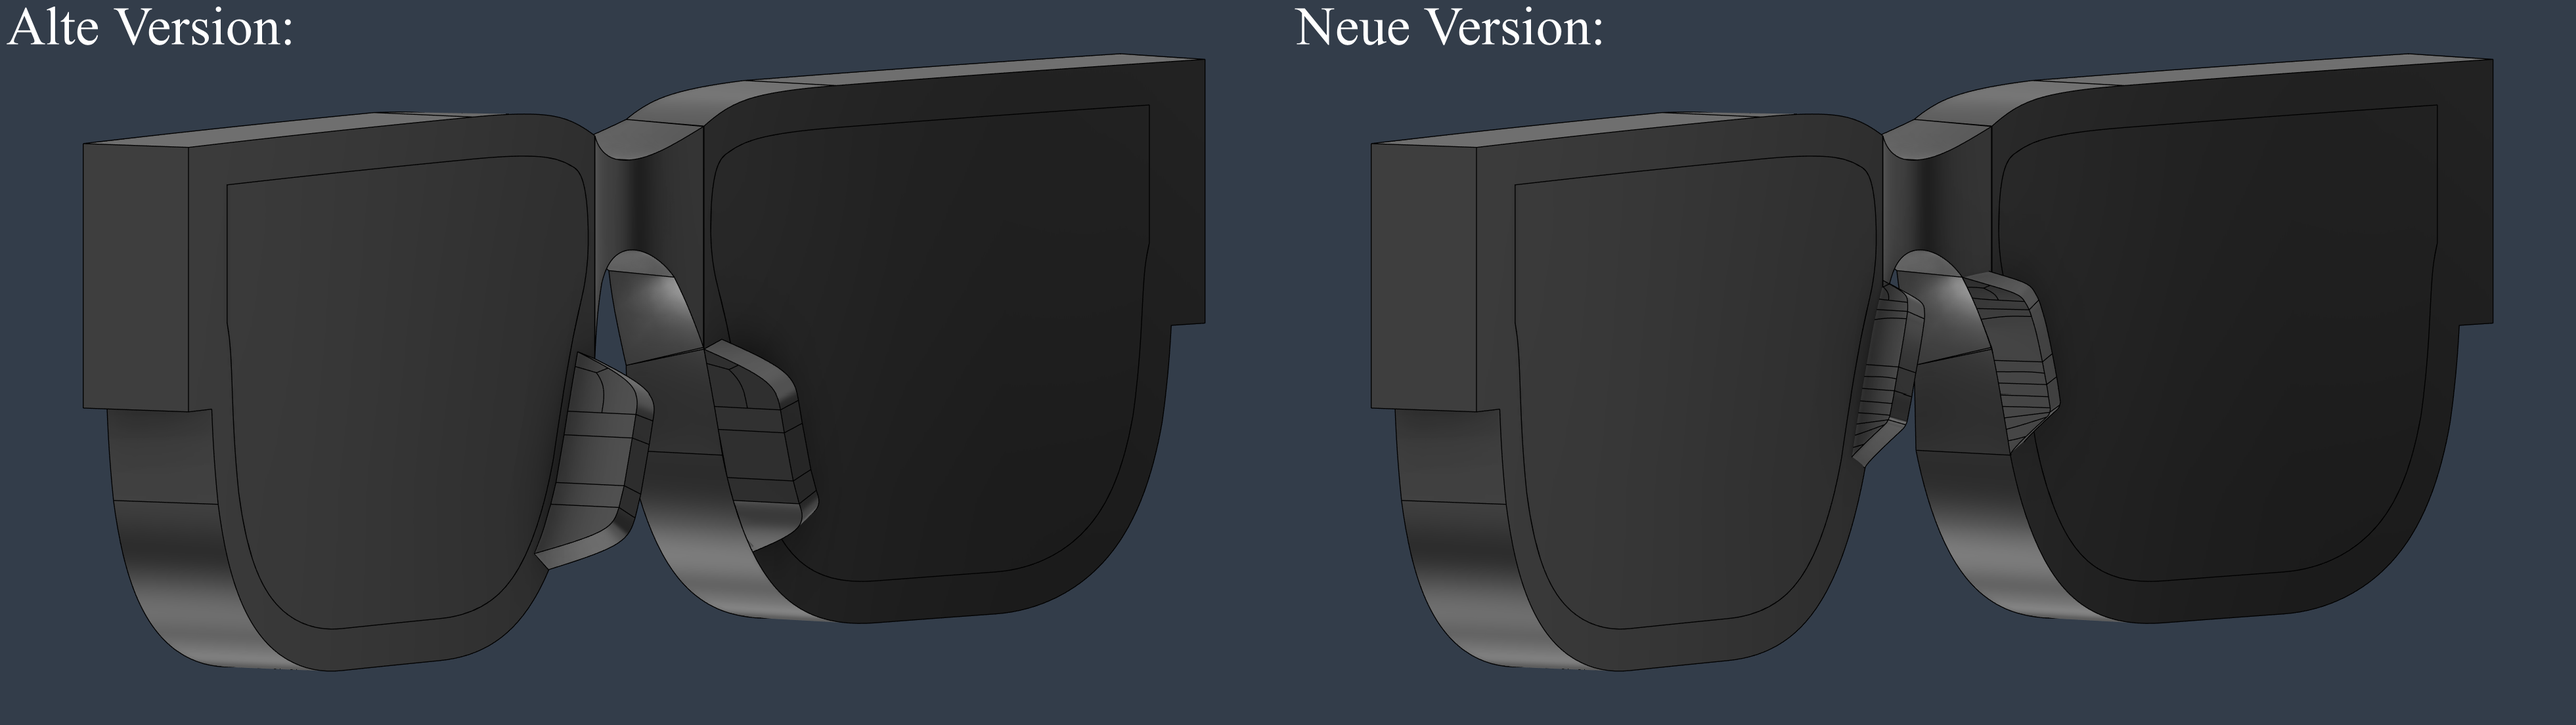
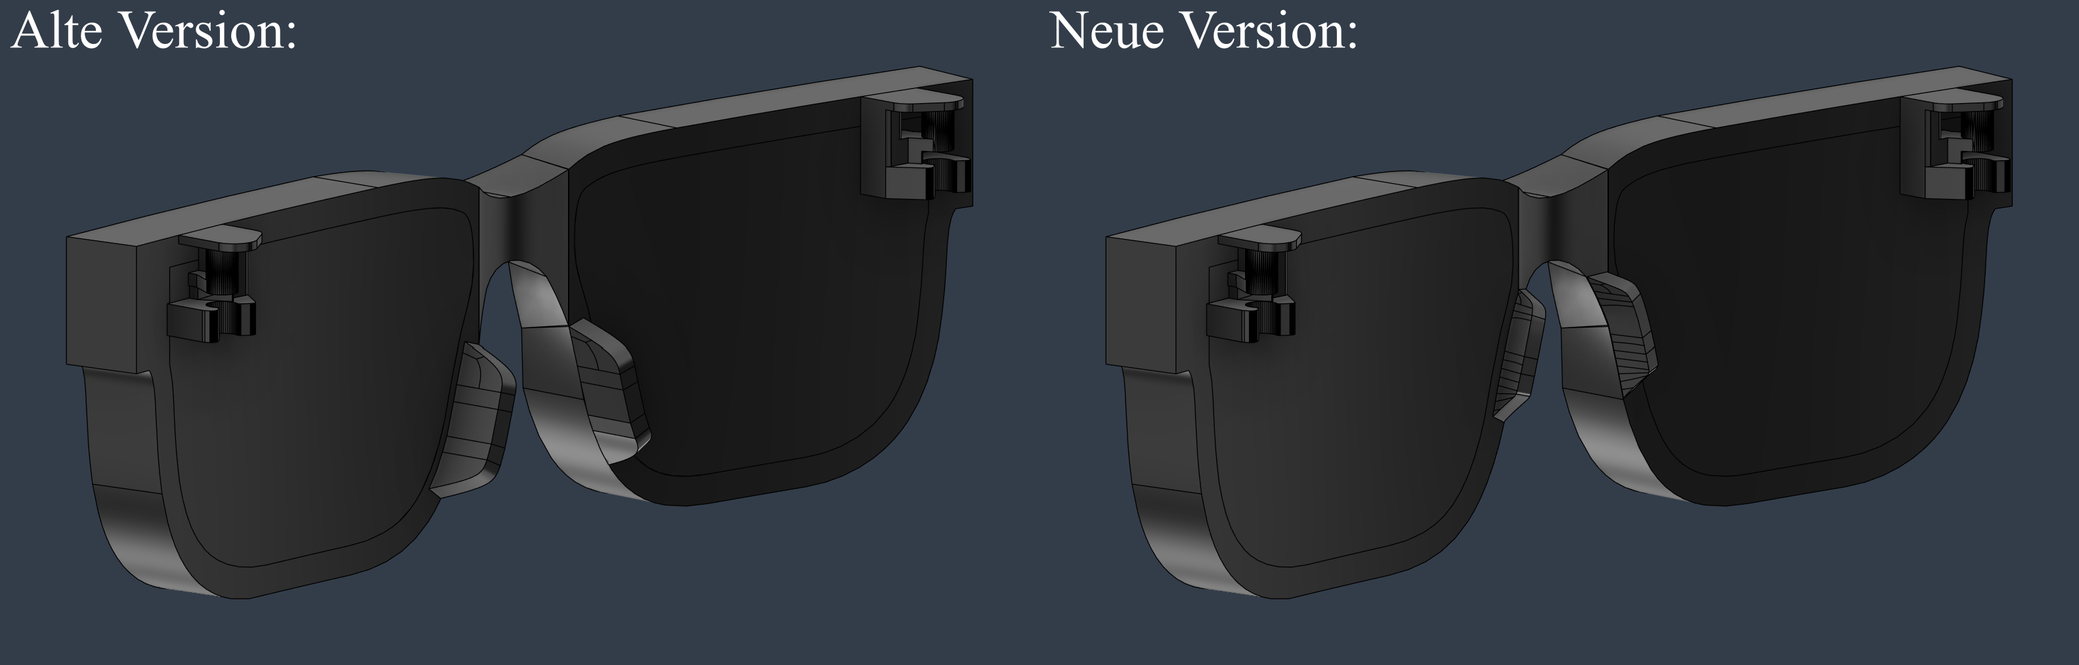
Update: Umsetzung (almost complete)

diff --git a/diplomarbeit/chapters/04_Umsetzung.tex b/diplomarbeit/chapters/04_Umsetzung.tex
@@ -631,10 +631,10 @@ Um ein komfortables Tragen der Brille im Nasenbereich zu ermöglichen, wurden di
 
 \textbf{Vorgesehene Umsetzungen:}
 \begin{itemize}
-    \item Die Abdeckung weicht derzeit noch zu stark von der Ästhetik einer Brille ab und sollte über zwei separate Gläser verfügen.
-    \item Die Form sollte überarbeitet werden, da das Verhältnis von Höhe zu Breite nicht zusammenpasst.
-    \item Im Nasenbereich sollte der Tragekomfort durch einen ergonomisch geformten Nasenbügel verbessert werden.
-    \item Der Button weist derzeit noch keine Auflagefläche auf und sitzt daher nur lose in der Button-Öffnung.
+    \item Die Abdeckung weicht derzeit noch zu stark von der Ästhetik einer Brille ab und verfügt über keine zwei separaten Gläser.
+    \item Die Form ist aufgrund des unausgewogenen Verhältnisses zwischen Höhe und Breite überarbeitungsbedürftig.
+    \item Der Button weist derzeit noch keine Auflagefläche auf und sitzt daher nur lose in der entsprechenden Aussparung.
+    \item Im Nasenbereich ist der Tragekomfort durch einen ergonomisch geformten Nasenbügel zu verbessern.
 \end{itemize}
 \newline
 \textbf{Realisierte Verbesserungen:}
@@ -691,8 +691,8 @@ Im Vergleich zur Vorversion wurden die zuvor vorhandenen Öffnungen an den äuß
 \end{figure}
 
 \textbf{Fazit zu Version 4:}
-Nach dem 3D-Druck des Bauteils stellte sich heraus, dass das Scharnier zu klein dimensioniert war und der Drucker die erforderlichen Feinheiten nicht mit ausreichender Genauigkeit umsetzen konnte. \newline
-Allgemein wurden zwar die Auflageflächen für den Knopf ergänzt, weiteren Probleme blieben jedoch bestehen bzw. teilweise traten auch neue auf. Folglich war ein kompletter Neuanfang des Rahmenmodells erforderlich, bei dem die gewonnenen Erkenntnisse aus den bisherigen Versionen angewandt werden sollen.
+Nach dem 3D-Druck des Bauteils stellte sich heraus, dass das Scharnier zu klein dimensioniert war und der Drucker die erforderlichen Feinheiten nicht mit ausreichender Genauigkeit umsetzen konnte.
+Zwar wurden Auflageflächen für den Knopf ergänzt, die übrigen, unter Rahmen v3 beschriebenen Probleme blieben jedoch bestehen bzw. teilweise traten neue auf. Folglich war ein kompletter Neuanfang des Rahmenmodells erforderlich, bei dem die gewonnenen Erkenntnisse aus den bisherigen Versionen angewandt werden sollen.
 
 \subsubsection*{Rahmen v5 - Neukonzeption}
 
@@ -820,9 +820,27 @@ Das linke Abdeckungsglas liegt formschlüssig auf dem Nicla Board auf. Zur Verbe
 \end{figure}
 
 \subsubsection*{Rahmen v8}
+Während der parallel ablaufenden Konstruktion von Rahmen und Bügel wurde ein neuer Scharniermechanismus integriert. Um zunächst einen einheitlichen Übergang vom Rahmen zum Bügel zu gewährleisten, wurden zwischen der siebten und achten Rahmen-Version die Ecken erweitert:
+
+\begin{figure}[H]
+    \centering
+    \includegraphics[width=0.5\textwidth]{media/images/Vergrößerung der Ecken}
+    \caption*{Vergrößerung der Ecken}
+    \label{fig:Vergrößerung der Ecken}
+\end{figure}
+  
+Der Scharniermechanismus basiert auf zwei Zylindern mit unterschiedlichen Radien - einem kleinen und einem größeren, die abwechselnd angeordnet sind.
+Um den Zuklappradius zu optimieren, ist die Ummantelung der Scharnierkreise nach innen offen gestaltet.
+
+\begin{figure}[H]
+    \centering
+    \includegraphics[width=0.4\textwidth]{media/images/Rahmen v8 - Scharniermechanismus.png}
+    \caption*{Rahmen v8: Scharniermechanismus}
+    \label{fig:Rahmen v8: Scharniermechanismus}
+\end{figure}
 
 \subsubsection*{Rahmen v9}
-Ein 10 × 2,5 × 5 mm (L × B × H) großer Schalter wurde im Rahmen angebracht. Um den begrenzten Raum optimal zu nutzen, erfolgte die Platzierung unterhalb der Rahmen-Ecken, wo noch ungenutzter Platz vorhanden war:
+Ein 10 × 2,5 × 5~mm (L × B × H) großer Schalter wurde im Rahmen angebracht. Um den begrenzten Raum optimal zu nutzen, erfolgte die Platzierung unterhalb der Rahmen-Ecken, wo noch ungenutzter Platz vorhanden war:
 
 \begin{figure}[H]
     \centering
@@ -833,6 +851,18 @@ Ein 10 × 2,5 × 5 mm (L × B × H) großer Schalter wurde im Rahmen angebrach
 
 Drei Bohrungen wurden modelliert, um die Pins mit der internen Elektronik zu verbinden. Außerdem wurde die Kabelführung in zwei separate Öffnungen aufgeteilt. \newline
 Siehe Abbildung: Scharnier-Aussparung (oben) und Akku-Aussparung (unten).
+
+\subsubsection*{Rahmen v10 - finale Version}
+Bei einem Praxistest der Brille wurde festgestellt, dass sich die Rückseite des Rahmens hinter dem Auflademodul stark erwärmte, weshalb die Auflagefläche der Halterung verkleinert wurde:
+
+\begin{figure}[H]
+    \centering
+    \includegraphics[width=0.35\textwidth]{media/images/Rahmen v10 - Lademodul-Auflagefläche.png}
+    \caption*{Rahmen v10: Lademodul-Auflagefläche}
+    \label{fig:Rahmen v10: Lademodul-Auflagefläche}
+\end{figure}
+  
+Darüber hinaus wurden Länge und Tiefe der Schalter-Öffnung optimiert, sodass der Schalter formschlüssig fixiert ist. Die Bohrungen wurden zudem vergrößert und von drei auf zwei reduziert.
 
 \subsubsection{Bügel}
 \subsubsection*{Bügel v1 - 2}
@@ -899,7 +929,7 @@ Der Übergang dient rein ästhetischen Zwecken und weist dahinter lediglich eine
 \textbf{Akku-Aufbewahrung:} Für die Energieversorgung wird ein Lithium-Ionen-Akku mit einer Kapazität von 2000\,mAh eingesetzt, um eine möglichst lange Betriebsdauer ohne erneutes Aufladen zu gewährleisten. Die Integration des Akkus erfolgt im Brillenbügel. Zur Vermeidung einer ungleichmäßigen Gewichtsverteilung wird auf der gegenüberliegenden Seite ebenfalls ein Akku vorgesehen.
 
 \subsubsection*{Bügel v3 - 4}
-In der dritten Version des Bügels wurde der hintere Bereich, welcher auf dem Ohr aufliegt, gezielt ergonomisch überarbeitet. Zu diesem Zweck erhielt der Bügel eine nach innen gerichtete Einkerbung, um eine bessere Anpassung an die natürliche Form des Ohres zu ermöglichen. Dadurch soll sowohl der Sitz verbessert als auch der Tragekomfort im Vergleich zu den vorherigen Versionen erhöht werden. \newline
+In der dritten Version des Bügels wurde der hintere Bereich, welcher auf dem Ohr aufliegt, gezielt ergonomisch überarbeitet. Zu diesem Zweck erhielt der Bügel eine nach innen gerichtete Einkerbung, um eine bessere Anpassung an die natürliche Form des Ohres zu ermöglichen. Dadurch soll sowohl der Sitz verbessert als auch der Tragekomfort im Vergleich zu den vorherigen Versionen erhöht werden.
 
 \begin{figure}[H]
     \centering

diff --git a/diplomarbeit/chapters/03_Konzept.tex b/diplomarbeit/chapters/03_Konzept.tex
@@ -1,6 +1,5 @@
 % !TEX root = ../main.tex
 \chapter{Konzept}
-
 Dieses Kapitel beschreibt die Architektur zum finalen Konzept des Assistenzsystems \glqq Ascenta\grqq. Es liefert einen detaillierten Gesamtüberblick über das funktionale Zusammenwirken der Teilsysteme und definiert die logischen Verantwortlichkeiten der einzelnen Komponentrn.
 
 \section{Gesamtüberblick und Systeminteraktion - Liam}

diff --git a/diplomarbeit/main.tex b/diplomarbeit/main.tex
@@ -9,6 +9,7 @@
 
 \usepackage{float}
 \usepackage{setspace}
+\usepackage{hyperref}
 \onehalfspacing
 \setcounter{secnumdepth}{3}
 \setcounter{tocdepth}{3}
